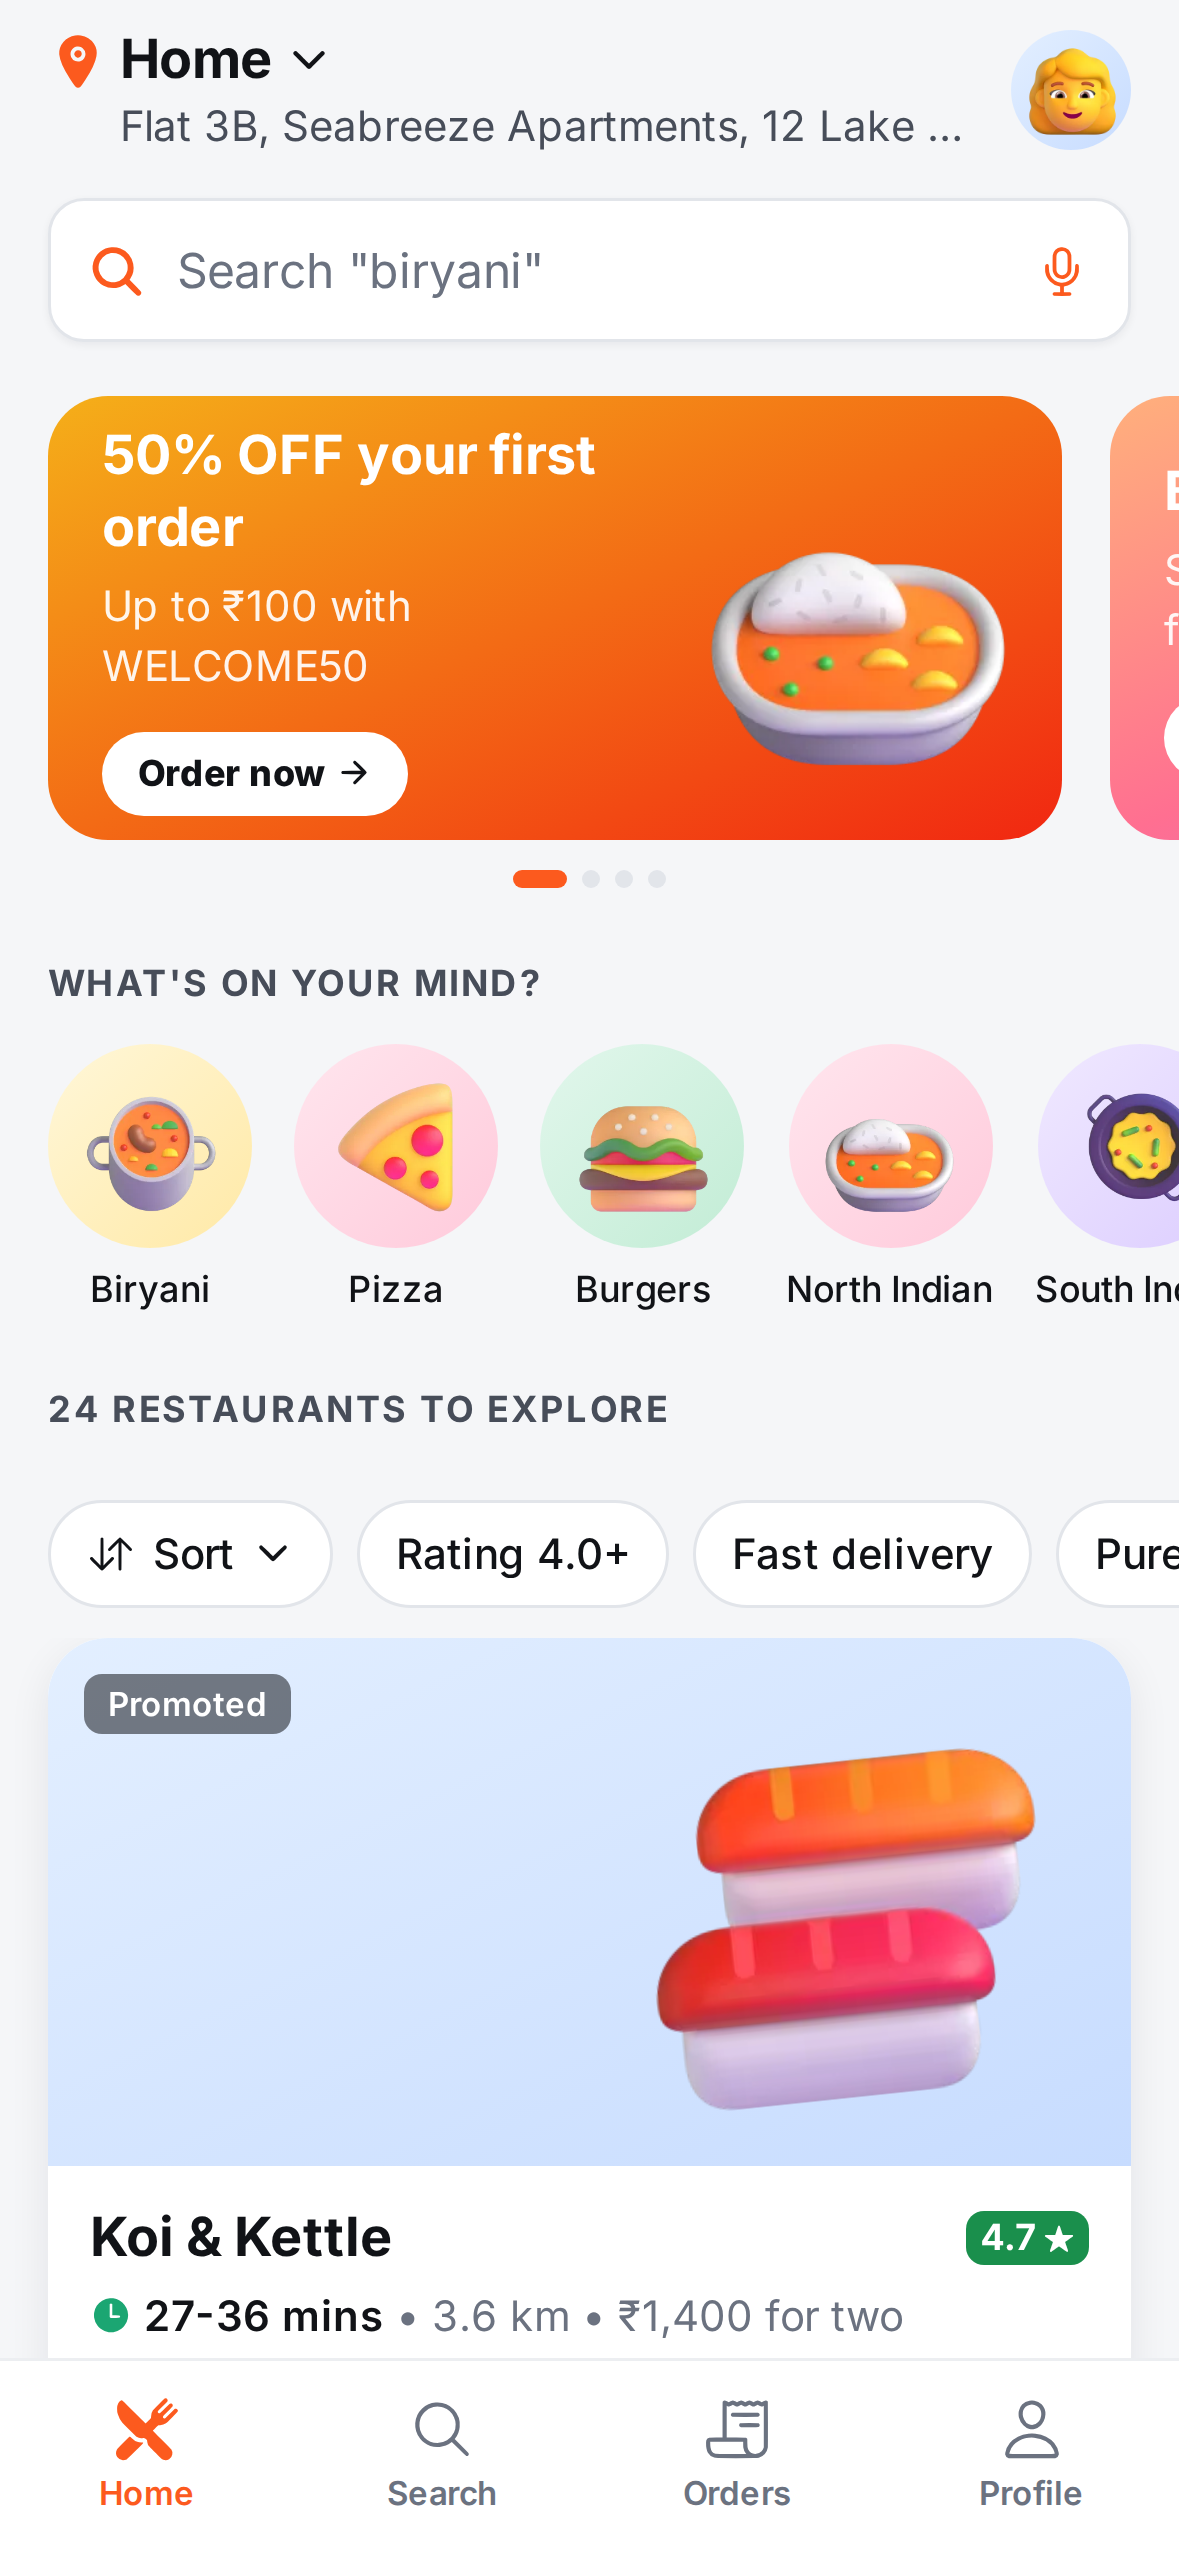
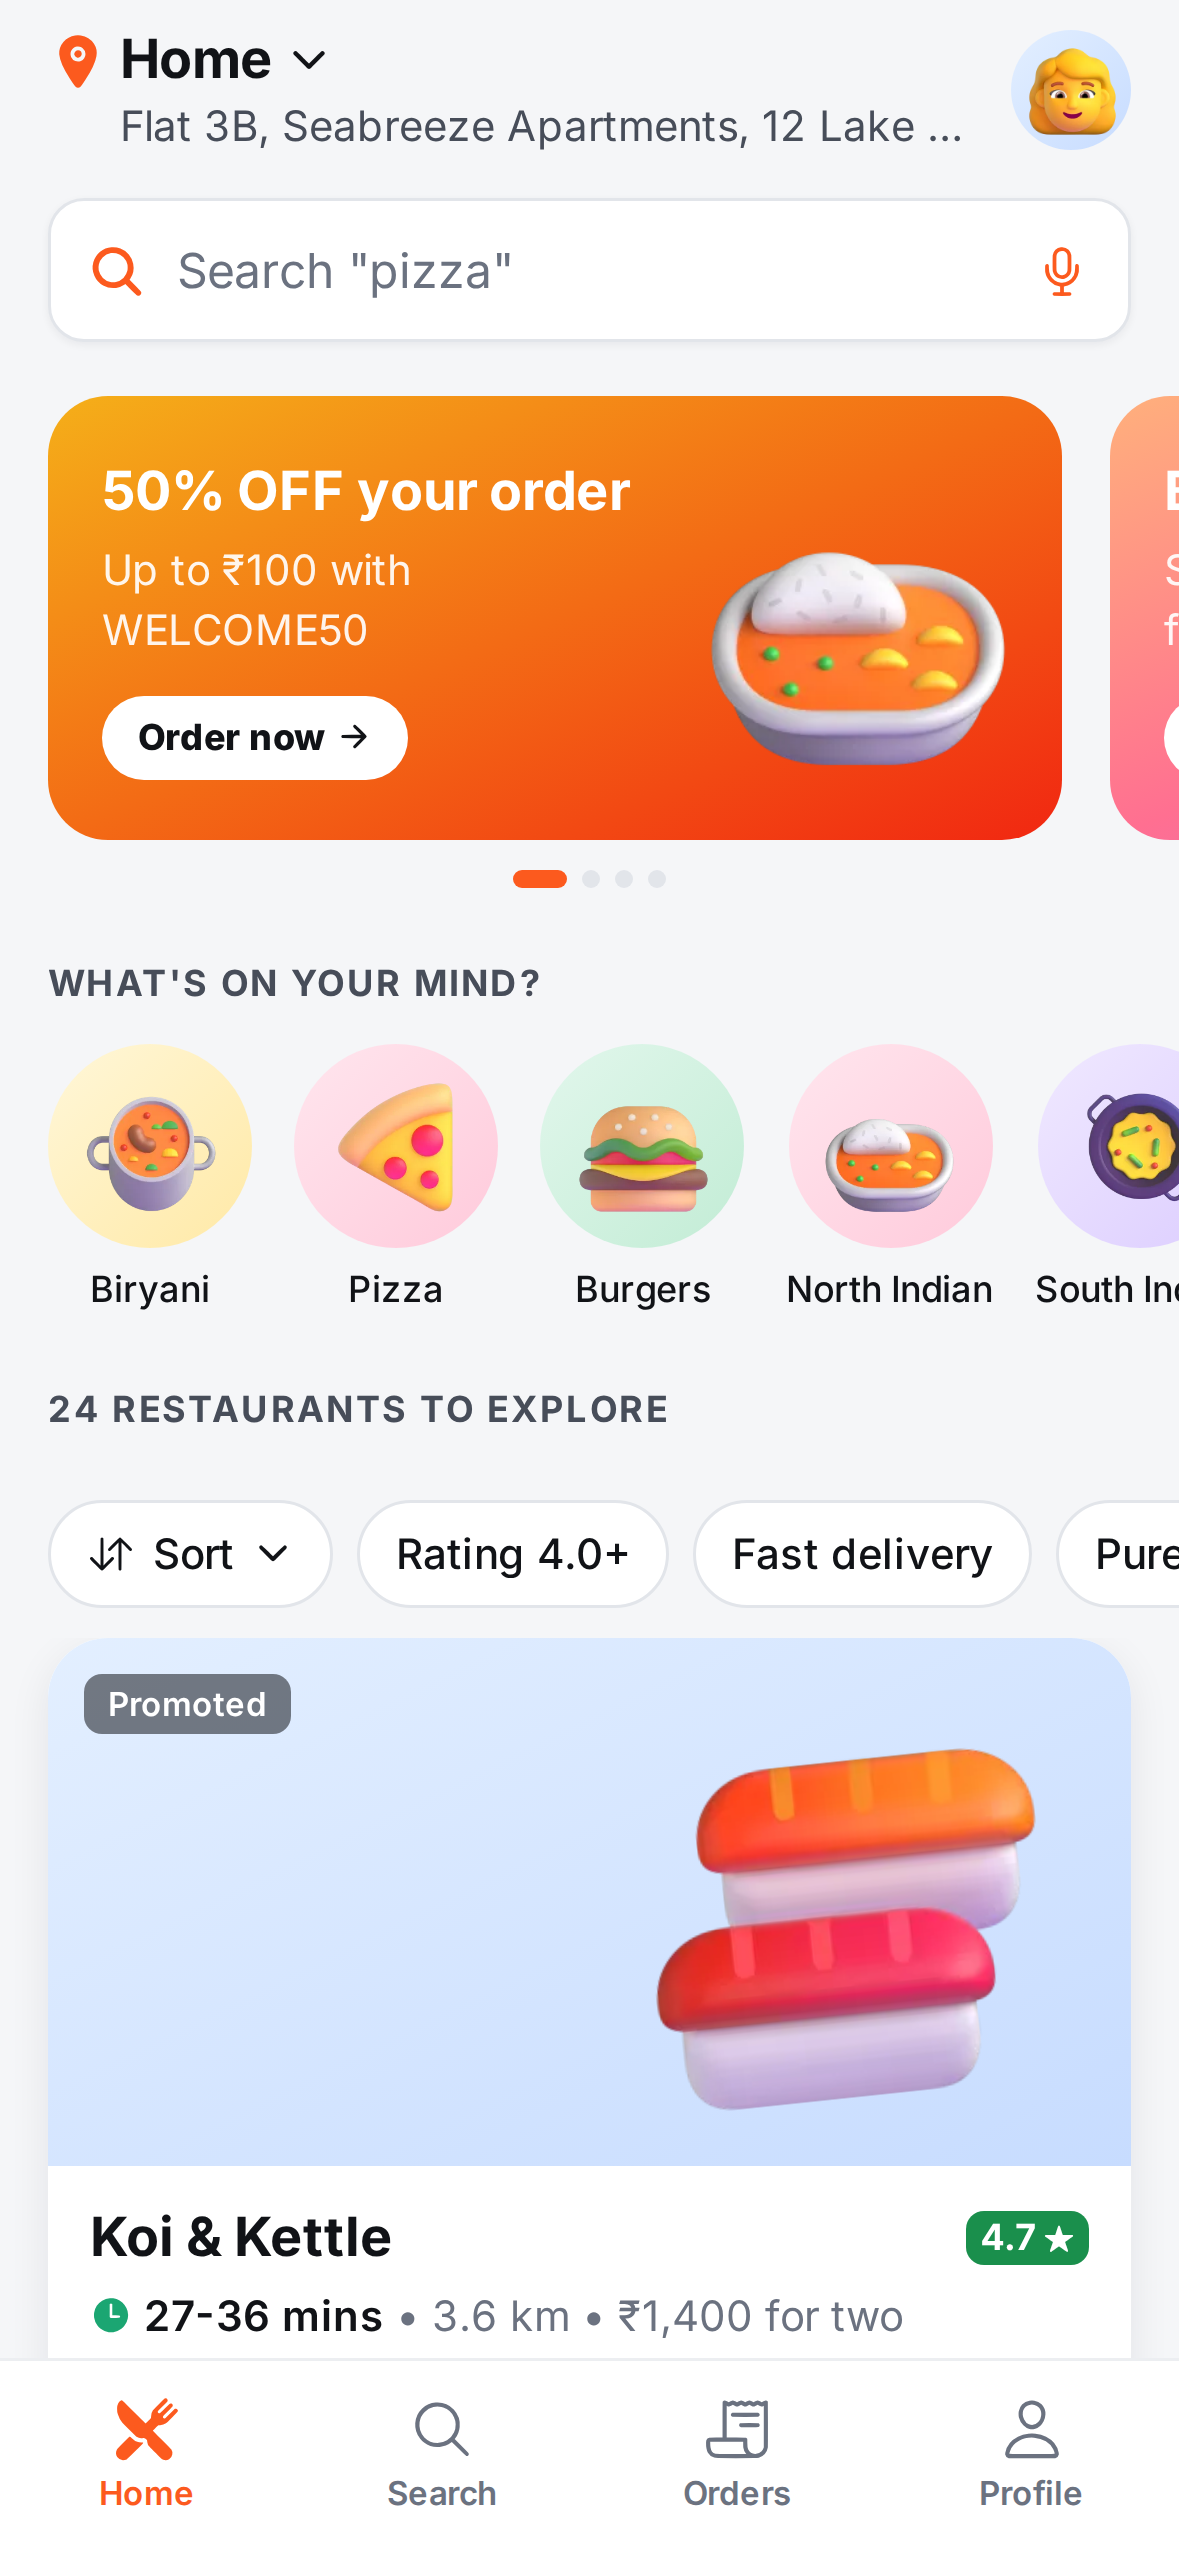
Platter charges exactly the total it shows
- The cart reports the address its bill is priced for, and the cart
  screen shows that address, so the fee on screen is the fee charged.
- The Place order button waits while the bill is re-priced for a new
  address, and re-prices first if the address changed.
- The chosen address resets after each order.
- The WELCOME50 banner no longer says "your first order".

Changed region(s): [[0.0611, 0.1545, 0.5496, 0.34], [0.3664, 0.0927, 0.458, 0.1236]]

diff --git a/apps/platter/src/test/screens/cart.test.tsx b/apps/platter/src/test/screens/cart.test.tsx
@@ -1,4 +1,4 @@
-import type { CouponOffer } from '@pro/api';
+import type { Cart, CouponOffer } from '@pro/api';
 import { screen, userEvent, waitFor, within } from '@testing-library/react-native';
 
 import CartScreen from '../../app/cart';
@@ -24,8 +24,8 @@ const welcome: CouponOffer = {
   estimatedSavings: 100,
 };
 
-function setup(items = [line({ quantity: 2, lineTotal: 640 })]) {
-  let current = cart(items);
+function setup(items = [line({ quantity: 2, lineTotal: 640 })], overrides: Partial<Cart> = {}) {
+  let current = cart(items, overrides);
   return fakeClient((method, path, body) => {
     if (path === '/cart/platter' && method === 'GET') return { body: current };
     if (path === '/me/addresses') return { body: [home, work] };
@@ -37,6 +37,13 @@ function setup(items = [line({ quantity: 2, lineTotal: 640 })]) {
     if (path === '/cart/platter/tip') {
       const amount = (body as { amount: number }).amount;
       current = { ...current, tip: amount, bill: { ...current.bill, tip: amount, total: current.bill.total + amount } };
+      return { body: current };
+    }
+    if (path === '/cart/platter/address') {
+      // Work is further away: the server re-prices the delivery fee.
+      const addressId = (body as { addressId: string }).addressId;
+      const fee = addressId === 'addr_work' ? 48 : 33;
+      current = { ...current, addressId, bill: { ...current.bill, deliveryFee: fee, total: current.bill.total - current.bill.deliveryFee + fee } };
       return { body: current };
     }
     if (path === '/orders' && method === 'POST') return { body: order('confirmed', { id: 'ord_new' }) };
@@ -86,6 +93,26 @@ describe('Cart screen', () => {
     await user.press(screen.getByTestId('place-order'));
     await waitFor(() => expect(router.replace).toHaveBeenCalledWith('/order/ord_new'));
     expect(calls.find((c) => c.path === '/orders')?.body).toEqual({ app: 'platter', addressId: 'addr_work', payment: { kind: 'cash' } });
+  });
+
+  it('re-prices for a new address so the button shows what will be charged', async () => {
+    const user = userEvent.setup();
+    const { client, calls } = setup();
+    await renderScreen(<CartScreen />, client);
+    await screen.findByText('Dal makhani');
+    expect(screen.getByLabelText('To pay, ₹711')).toBeOnTheScreen();
+
+    await user.press(screen.getByRole('button', { name: /Delivering to Home/ }));
+    await user.press(within(await screen.findByTestId('address-sheet')).getByRole('radio', { name: /^Work/ }));
+    await waitFor(() => expect(screen.getByLabelText('To pay, ₹726')).toBeOnTheScreen());
+    expect(calls.find((c) => c.path === '/cart/platter/address')?.body).toEqual({ addressId: 'addr_work' });
+    expect(screen.getByTestId('place-order')).toHaveTextContent(/₹726/);
+  });
+
+  it('shows the address the cart is priced for when it opens', async () => {
+    const { client } = setup(undefined, { addressId: 'addr_work' });
+    await renderScreen(<CartScreen />, client);
+    expect(await screen.findByText('Delivering to Work')).toBeOnTheScreen();
   });
 
   it('shows an empty state with no items', async () => {

diff --git a/apps/platter/src/app/cart.tsx b/apps/platter/src/app/cart.tsx
@@ -105,7 +105,9 @@ export default function CartScreen() {
   const [paymentId, setPaymentId] = useState('upi');
   const [instructions, setInstructions] = useState('');
   const [sheet, setSheet] = useState<'coupon' | 'address' | 'payment' | null>(null);
-  const address = addresses.data?.find((a) => a.id === addressId) ?? defaultAddress(addresses.data);
+  // Show the address the server priced the bill for, so the fee on screen is the fee charged.
+  const pricedFor = addressId ?? cart?.addressId ?? undefined;
+  const address = addresses.data?.find((a) => a.id === pricedFor) ?? defaultAddress(addresses.data);
   const payment = paymentOption(paymentId);
   const goBack = () => (router.canGoBack() ? router.back() : router.replace('/'));
 
@@ -157,6 +159,11 @@ export default function CartScreen() {
   const order = () => {
     if (!address) {
       setSheet('address');
+      return;
+    }
+    // Never charge a total the button didn't show: re-price first if the address changed.
+    if (cart.addressId !== address.id) {
+      setCartAddress.mutate(address.id);
       return;
     }
     placeOrder.mutate(
@@ -307,7 +314,7 @@ export default function CartScreen() {
           size="lg"
           variant="accent"
           style={styles.place}
-          loading={placeOrder.isPending}
+          loading={placeOrder.isPending || setCartAddress.isPending}
           onPress={order}
           testID="place-order"
         />
@@ -344,7 +351,7 @@ export default function CartScreen() {
         onSelect={(a) => {
           setAddressId(a.id);
           // The delivery fee depends on the distance, so re-price the bill for this address.
-          setCartAddress.mutate(a.id);
+          setCartAddress.mutate(a.id, { onError: () => setAddressId(undefined) });
           setSheet(null);
         }}
       />

diff --git a/server/src/routes/commerce.test.ts b/server/src/routes/commerce.test.ts
@@ -136,6 +136,17 @@ describe('cart', () => {
     await h.json('PUT', '/cart/platter/address', { token, body: { addressId: 'addr_home' } });
     const order = await h.json<Order>('POST', '/orders', { token, body: { app: 'platter', addressId: 'addr_parents', payment: { kind: 'upi' } }, status: 201 });
     expect(order.bill.deliveryFee).toBe(away.bill.deliveryFee);
+    expect(away.addressId).toBe('addr_parents');
+    // The next cart starts from the default address again.
+    expect((await h.json<Cart>('GET', '/cart/platter', { token })).addressId).toBe('addr_home');
+  });
+
+  it('charges exactly the total the cart showed for the same address', async () => {
+    const [item] = await firstItems('r-04');
+    await h.json('PUT', '/cart/platter/items', { token, body: { productId: item!.id, quantity: 2 } });
+    const shown = await h.json<Cart>('PUT', '/cart/platter/address', { token, body: { addressId: 'addr_parents' } });
+    const order = await h.json<Order>('POST', '/orders', { token, body: { app: 'platter', addressId: shown.addressId, payment: { kind: 'upi' } }, status: 201 });
+    expect(order.bill.total).toBe(shown.bill.total);
   });
 
   it('keeps carts separate per app and per user', async () => {

diff --git a/server/src/seed/common.ts b/server/src/seed/common.ts
@@ -73,7 +73,7 @@ export interface SeedBanner {
 }
 
 export const banners: SeedBanner[] = [
-  { id: 'b-plt-1', app: 'platter', title: '50% OFF your first order', subtitle: 'Up to ₹100 with WELCOME50', cta: 'Order now', art: 'curry-and-rice', tone: 'ember', link: '/offers' },
+  { id: 'b-plt-1', app: 'platter', title: '50% OFF your order', subtitle: 'Up to ₹100 with WELCOME50', cta: 'Order now', art: 'curry-and-rice', tone: 'ember', link: '/offers' },
   { id: 'b-plt-2', app: 'platter', title: 'Biryani weekend', subtitle: 'Slow-cooked dum biryanis from ₹249', cta: 'Explore', art: 'pot-of-food', tone: 'sunset', link: '/cuisine/biryani' },
   { id: 'b-plt-3', app: 'platter', title: 'Free delivery all day', subtitle: 'On orders above ₹199 with FREEDEL', cta: 'Grab it', art: 'motor-scooter', tone: 'aurora', link: '/offers' },
   { id: 'b-plt-4', app: 'platter', title: 'Late-night cravings', subtitle: 'Kitchens open till 3 am near you', cta: 'See all', art: 'hamburger', tone: 'night', link: '/collection/late-night' },

diff --git a/server/src/services/orders.ts b/server/src/services/orders.ts
@@ -325,7 +325,7 @@ export function placeOrder(deps: Deps, userId: string, input: PlaceOrderInput): 
     });
     db.prepare("INSERT INTO order_events (order_id, status, at) VALUES (?, 'confirmed', ?)").run(id, now);
     db.prepare('DELETE FROM cart_lines WHERE user_id = ? AND app = ? AND saved_for_later = 0').run(userId, input.app);
-    db.prepare('UPDATE carts SET coupon_code = NULL, tip = 0, restaurant_id = NULL, updated_at = ? WHERE user_id = ? AND app = ?').run(
+    db.prepare('UPDATE carts SET coupon_code = NULL, tip = 0, restaurant_id = NULL, address_id = NULL, updated_at = ? WHERE user_id = ? AND app = ?').run(
       now,
       userId,
       input.app,

diff --git a/packages/api/src/types.ts b/packages/api/src/types.ts
@@ -713,6 +713,8 @@ export interface Cart {
   restaurant: RestaurantSummary | null;
   /** Spend this much more for free delivery; null when already free or not applicable. */
   amountToFreeDelivery: number | null;
+  /** The delivery address the bill is priced for (Platter's fee depends on it). */
+  addressId?: string | null;
 }
 
 export interface SetCartItemInput {

diff --git a/server/src/services/cart.ts b/server/src/services/cart.ts
@@ -271,6 +271,7 @@ export function getCart(db: DB, userId: string, app: CommerceApp, now: number, a
     cart.restaurant_id,
   );
   return {
+    addressId: address?.id ?? null,
     app,
     items: lines.filter((l) => !l.savedForLater),
     savedForLater: lines.filter((l) => l.savedForLater),

diff --git a/apps/platter/src/test/fixtures.ts b/apps/platter/src/test/fixtures.ts
@@ -120,6 +120,7 @@ export function cart(items: CartLine[] = [], overrides: Partial<Cart> = {}): Car
     },
     restaurant: empty ? null : restaurant,
     amountToFreeDelivery: null,
+    addressId: 'addr_home',
     ...overrides,
   };
 }
